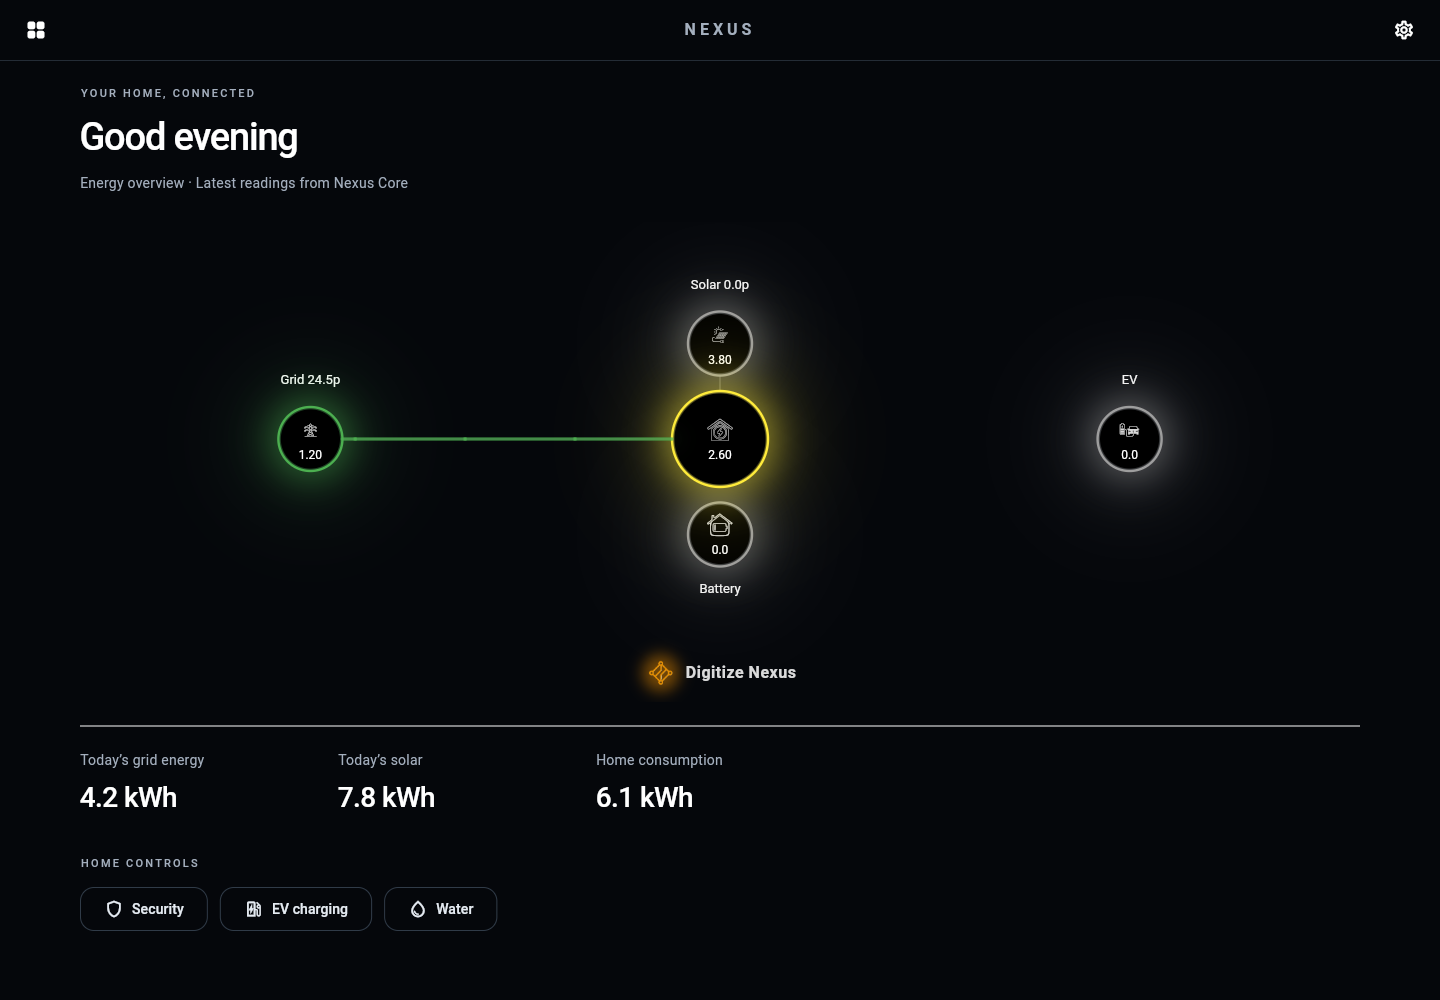
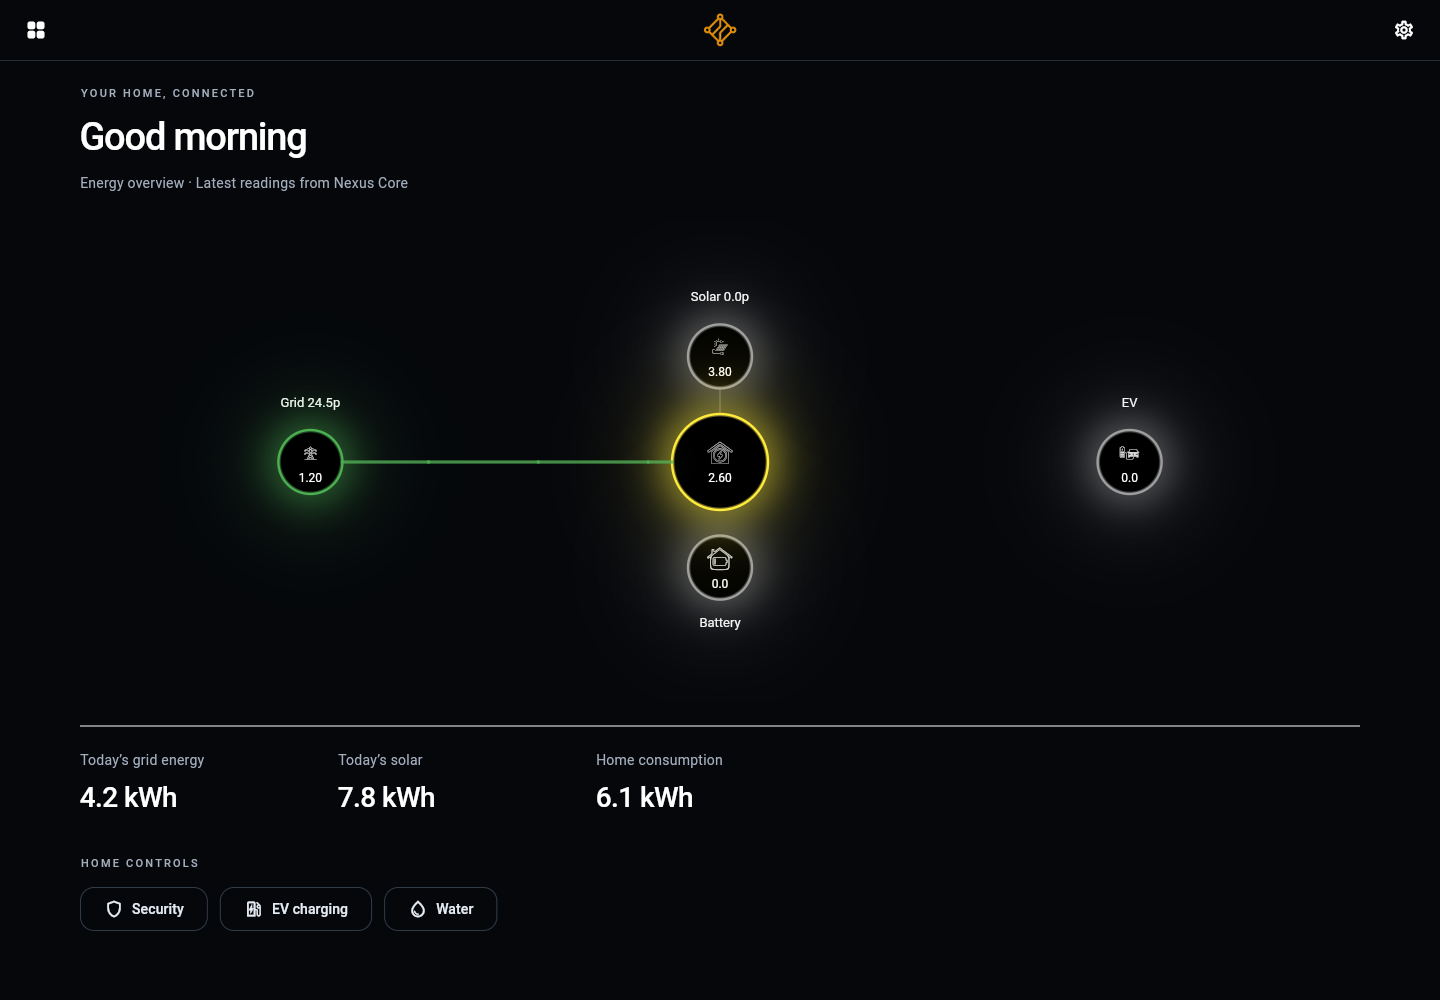
Focus energy dashboard on systems and adapt header branding

diff --git a/lib/features/home/widgets/nexus_header.dart b/lib/features/home/widgets/nexus_header.dart
@@ -6,53 +6,97 @@ class NexusHeader extends StatelessWidget {
   final bool showSettings;
   final String? title;
 
+  /// Kiosk installations can force left alignment even on a desktop host.
+  /// Otherwise only spacious desktop layouts centre the brand.
+  final bool? centerBrand;
+
   const NexusHeader({
     super.key,
     this.isMainPage = false,
     this.onBack,
     this.showSettings = true,
     this.title,
+    this.centerBrand,
   });
 
   @override
-  Widget build(BuildContext context) => SafeArea(
-    bottom: false,
-    child: Container(
-      padding: const EdgeInsets.symmetric(horizontal: 16, vertical: 10),
-      decoration: const BoxDecoration(
-        border: Border(bottom: BorderSide(color: Color(0xFF242C36))),
-      ),
-      child: Row(
-        children: [
-          if (!isMainPage)
-            IconButton(
-              tooltip: 'Home systems',
-              onPressed: onBack,
-              icon: const Icon(Icons.grid_view_rounded, size: 22),
-            )
-          else
-            const SizedBox(width: 48),
-          Expanded(
-            child: Text(
-              title ?? 'NEXUS',
-              textAlign: TextAlign.center,
-              style: const TextStyle(
-                fontSize: 16,
-                fontWeight: FontWeight.w600,
-                letterSpacing: 4,
-              ),
+  Widget build(BuildContext context) {
+    final platform = Theme.of(context).platform;
+    final desktop =
+        platform == TargetPlatform.linux ||
+        platform == TargetPlatform.macOS ||
+        platform == TargetPlatform.windows;
+
+    return SafeArea(
+      bottom: false,
+      child: LayoutBuilder(
+        builder: (context, constraints) {
+          final centered =
+              centerBrand ??
+              (desktop &&
+                  constraints.maxWidth >= 1100 &&
+                  MediaQuery.sizeOf(context).shortestSide >= 900);
+          return Container(
+            padding: const EdgeInsets.symmetric(horizontal: 16, vertical: 10),
+            decoration: const BoxDecoration(
+              border: Border(bottom: BorderSide(color: Color(0xFF242C36))),
             ),
-          ),
-          if (showSettings)
-            IconButton(
-              tooltip: 'Settings',
-              onPressed: () => Navigator.pushNamed(context, '/settings'),
-              icon: const Icon(Icons.settings_outlined, size: 22),
-            )
-          else
-            const SizedBox(width: 48),
-        ],
+            child: Row(
+              children: [
+                if (!isMainPage)
+                  IconButton(
+                    tooltip: 'Home systems',
+                    onPressed: onBack,
+                    icon: const Icon(Icons.grid_view_rounded, size: 22),
+                  )
+                else if (centered)
+                  const SizedBox(width: 48),
+                Expanded(
+                  child: Align(
+                    alignment: centered
+                        ? Alignment.center
+                        : Alignment.centerLeft,
+                    child: Row(
+                      mainAxisSize: MainAxisSize.min,
+                      children: [
+                        Padding(
+                          padding: const EdgeInsets.symmetric(horizontal: 12),
+                          child: Image.asset(
+                            'assets/digitize_nexus_logo.png',
+                            width: 36,
+                            height: 36,
+                            semanticLabel: 'Nexus',
+                          ),
+                        ),
+                        if (title != null)
+                          Flexible(
+                            child: Text(
+                              title!,
+                              maxLines: 1,
+                              overflow: TextOverflow.ellipsis,
+                              style: const TextStyle(
+                                fontSize: 16,
+                                fontWeight: FontWeight.w500,
+                              ),
+                            ),
+                          ),
+                      ],
+                    ),
+                  ),
+                ),
+                if (showSettings)
+                  IconButton(
+                    tooltip: 'Settings',
+                    onPressed: () => Navigator.pushNamed(context, '/settings'),
+                    icon: const Icon(Icons.settings_outlined, size: 22),
+                  )
+                else if (centered)
+                  const SizedBox(width: 48),
+              ],
+            ),
+          );
+        },
       ),
-    ),
-  );
+    );
+  }
 }

diff --git a/test/nexus_header_test.dart b/test/nexus_header_test.dart
@@ -1,0 +1,104 @@
+import 'package:flutter/material.dart';
+import 'package:flutter_test/flutter_test.dart';
+import 'package:nexus_app/features/home/widgets/nexus_header.dart';
+import 'package:nexus_app/theme/nexus_theme.dart';
+
+void main() {
+  for (final setup in [
+    (
+      name: 'desktop',
+      size: const Size(1440, 1000),
+      platform: TargetPlatform.linux,
+      centered: true,
+    ),
+    (
+      name: 'landscape tablet',
+      size: const Size(1280, 800),
+      platform: TargetPlatform.android,
+      centered: false,
+    ),
+    (
+      name: 'large tablet',
+      size: const Size(1366, 1024),
+      platform: TargetPlatform.iOS,
+      centered: false,
+    ),
+    (
+      name: 'NSPanel-sized screen',
+      size: const Size(480, 480),
+      platform: TargetPlatform.android,
+      centered: false,
+    ),
+  ]) {
+    testWidgets(
+      '${setup.name} places one logo outside the camera area when needed',
+      (tester) async {
+        tester.view.physicalSize = setup.size;
+        tester.view.devicePixelRatio = 1;
+        addTearDown(tester.view.resetPhysicalSize);
+        addTearDown(tester.view.resetDevicePixelRatio);
+        var systemsOpened = false;
+        await tester.pumpWidget(
+          MaterialApp(
+            theme: nexusTheme.copyWith(platform: setup.platform),
+            routes: {
+              '/settings': (_) => const Scaffold(body: Text('Settings page')),
+            },
+            home: Scaffold(
+              body: Column(
+                children: [NexusHeader(onBack: () => systemsOpened = true)],
+              ),
+            ),
+          ),
+        );
+        final logo = find.byType(Image);
+        expect(logo, findsOneWidget);
+        expect(
+          (tester.widget<Image>(logo).image as AssetImage).assetName,
+          'assets/digitize_nexus_logo.png',
+        );
+        expect(find.text('NEXUS'), findsNothing);
+        final position = tester.getCenter(logo);
+        if (setup.centered) {
+          expect(position.dx, closeTo(setup.size.width / 2, 1));
+        } else {
+          expect(
+            tester.getRect(logo).right,
+            lessThan(setup.size.width / 2 - 24),
+          );
+        }
+        await tester.tap(find.byTooltip('Home systems'));
+        expect(systemsOpened, isTrue);
+        await tester.tap(find.byTooltip('Settings'));
+        await tester.pumpAndSettle();
+        expect(find.text('Settings page'), findsOneWidget);
+        expect(tester.takeException(), isNull);
+      },
+    );
+  }
+
+  testWidgets(
+    'desktop kiosk override keeps branding left and preserves page title',
+    (tester) async {
+      tester.view.physicalSize = const Size(1440, 1000);
+      tester.view.devicePixelRatio = 1;
+      addTearDown(tester.view.resetPhysicalSize);
+      addTearDown(tester.view.resetDevicePixelRatio);
+      await tester.pumpWidget(
+        MaterialApp(
+          theme: nexusTheme.copyWith(platform: TargetPlatform.linux),
+          home: const Scaffold(
+            body: Column(
+              children: [
+                NexusHeader(centerBrand: false, title: 'Security Overview'),
+              ],
+            ),
+          ),
+        ),
+      );
+      expect(tester.getRect(find.byType(Image)).right, lessThan(200));
+      expect(find.text('Security Overview'), findsOneWidget);
+      expect(tester.takeException(), isNull);
+    },
+  );
+}

diff --git a/test/widget_test.dart b/test/widget_test.dart
@@ -9,6 +9,7 @@ import 'package:nexus_app/core/providers/energy_provider.dart';
 import 'package:nexus_app/core/repositories/energy_repository.dart';
 import 'package:nexus_app/features/home/nexus_home.dart';
 import 'package:nexus_app/features/home/widgets/nexus_energy_map.dart';
+import 'package:nexus_app/features/home/widgets/nexus_footer.dart';
 import 'package:nexus_app/theme/nexus_theme.dart';
 
 class TestRepository extends NexusEnergyRepository {
@@ -64,6 +65,9 @@ void main() {
       }),
     );
     await tester.pump();
+    expect(find.byType(NexusFooter), findsNothing);
+    expect(find.text('Digitize Nexus'), findsNothing);
+    expect(find.byType(Image), findsOneWidget);
     await tester.tap(find.byType(NexusEnergyMap));
     await tester.pump(const Duration(milliseconds: 400));
     expect(find.text('Power now: 0.00 kW'), findsOneWidget);
@@ -71,6 +75,40 @@ void main() {
     await tester.pump(const Duration(milliseconds: 400));
     await tester.scrollUntilVisible(find.text('4.2 kWh'), 200);
     expect(find.text('4.2 kWh'), findsOneWidget);
+    expect(tester.takeException(), isNull);
+    await tester.pumpWidget(const SizedBox());
+  });
+  testWidgets('landscape energy node taps match all five visible nodes', (
+    tester,
+  ) async {
+    tester.view.physicalSize = const Size(1440, 1000);
+    tester.view.devicePixelRatio = 1;
+    addTearDown(tester.view.resetPhysicalSize);
+    addTearDown(tester.view.resetDevicePixelRatio);
+    final repo = TestRepository();
+    await tester.pumpWidget(
+      ProviderScope(
+        overrides: [energyRepositoryProvider.overrideWithValue(repo)],
+        child: MaterialApp(theme: nexusTheme, home: const NexusHome()),
+      ),
+    );
+    repo.pending.complete(NexusEnergyState.fromJson({}));
+    await tester.pump();
+    final bounds = tester.getRect(find.byType(NexusEnergyMap));
+    for (final node in [
+      (name: 'Home', offset: Offset.zero),
+      (name: 'Solar', offset: Offset(0, -bounds.height * 0.22)),
+      (name: 'Battery', offset: Offset(0, bounds.height * 0.22)),
+      (name: 'Grid', offset: Offset(-bounds.width * 0.32, 0)),
+      (name: 'EV charging', offset: Offset(bounds.width * 0.32, 0)),
+    ]) {
+      await tester.tapAt(bounds.center + node.offset);
+      await tester.pump(const Duration(milliseconds: 400));
+      expect(find.descendant(of: find.byType(BottomSheet),
+          matching: find.text(node.name)), findsOneWidget);
+      Navigator.of(tester.element(find.text('Power now: 0.00 kW'))).pop();
+      await tester.pump(const Duration(milliseconds: 400));
+    }
     expect(tester.takeException(), isNull);
     await tester.pumpWidget(const SizedBox());
   });

diff --git a/lib/features/home/widgets/nexus_energy_map.dart b/lib/features/home/widgets/nexus_energy_map.dart
@@ -43,8 +43,10 @@ class NexusEnergyMap extends StatelessWidget {
         final centerX = w / 2;
         final centerY = h / 2;
 
-        final verticalOffset = h * 0.28;
-        final horizontalOffset = w * 0.28;
+        final landscape =
+            MediaQuery.orientationOf(context) == Orientation.landscape;
+        final verticalOffset = h * (landscape ? 0.22 : 0.28);
+        final horizontalOffset = w * (landscape ? 0.32 : 0.28);
 
         final solarPos = Offset(centerX, centerY - verticalOffset);
         final batteryPos = Offset(centerX, centerY + verticalOffset);

diff --git a/lib/features/home/widgets/tesla_energy_map.dart b/lib/features/home/widgets/tesla_energy_map.dart
@@ -1,6 +1,5 @@
 import 'dart:math';
 import 'package:flutter/material.dart';
-import 'package:nexus_app/features/home/widgets/nexus_footer.dart';
 import 'tesla_icons.dart';
 
 class TeslaEnergyMap extends StatefulWidget {
@@ -229,7 +228,6 @@ class _TeslaEnergyMapState extends State<TeslaEnergyMap>
             ),
           ),
 
-          const NexusFooter(),
         ],
       );
     }

diff --git a/REVIEW.md b/REVIEW.md
@@ -17,7 +17,7 @@ Changes:
 
 Verification:
 - Flutter dependencies resolved; the lockfile reflects the installed SDK's pinned dependencies.
-- Both widget tests pass.
+- Eight widget tests pass, including responsive branding, existing navigation and all five energy-node reading sheets.
 - The active application builds successfully for web.
 - Scoped static analysis of home UI, theme, energy provider and tests has no errors. Existing warnings and SDK deprecation/style notices remain.
 - Full-project static analysis reports pre-existing errors: obsolete NexusData constructor arguments in nexus_repository.dart; incorrect security overview import in navigation.dart; absent base_repository.dart used by SecurityRepository; missing TapAnimation arguments in tap_test_page.dart. These were outside this dashboard iteration and have not been silently replaced.
@@ -38,3 +38,12 @@ Run from Nexus_App using a compatible Flutter SDK:
 Browser builds require the backend to allow the app's origin. Use the existing native platforms for target-device verification.
 
 Browser screenshots use simulated readings, not telemetry from a real property. Browser checks block HTTPS requests to verify that the local renderer/font setup works without public CDNs.
+
+## Branding feedback update
+
+- Replaced default NEXUS header text with the supplied logo asset and an accessible Nexus label.
+- Left-aligned the logo for Android/iOS and compact viewports; spacious desktops can centre it. Added an explicit alignment override for kiosks.
+- Removed the Digitize Nexus footer from the animated energy display; the existing footer component remains available elsewhere.
+- Preserved the large central House node, telemetry and animation behaviour.
+- Matched landscape tap targets to the painter's existing node positions.
+- Web build and eight widget tests pass. Scoped static analysis reports no errors, with pre-existing warning/deprecation/style notices retained.

diff --git a/README.md b/README.md
@@ -7,7 +7,7 @@ This repository contains the first dashboard UI iteration, preserving the suppli
 ## Verification
 
 - Web build passes.
-- Both dashboard widget tests pass, covering offline navigation, narrow-screen layout and the energy reading panel.
+- Eight widget tests pass, covering responsive logo placement, navigation, offline behaviour, narrow-screen layout and all five energy-node reading panels.
 - Scoped dashboard analysis has no errors; warning and style/deprecation notices remain.
 - Full-project analysis still reports errors in older files outside this dashboard iteration. See [review notes](REVIEW.md) and [analysis output](docs/full-project-analysis.txt).
 - Physical devices, Home Assistant and NSPanel Pro have not been verified. Some existing security logic simulates alarm state.
@@ -28,6 +28,12 @@ These screenshots use **simulated energy readings**, not real home telemetry.
 
 ![Desktop dashboard](docs/dashboard-desktop.png)
 
-[Phone-sized preview](docs/dashboard-mobile.png)
+[Phone-sized preview](docs/dashboard-mobile.png) · [Tablet preview](docs/dashboard-tablet.png) · [NSPanel-sized preview](docs/dashboard-nspanel.png)
 
 This is development source, not a commercial release. See [REVIEW.md](REVIEW.md) for scope and limitations.
+
+## Dashboard branding
+
+The header shows the supplied Nexus symbol once. Spacious desktop layouts can centre it; Android/iOS and compact layouts keep it left-aligned to avoid the top-centre camera area. Desktop-hosted kiosks can set `NexusHeader(centerBrand: false)`. Existing page titles and controls remain available.
+
+The animated energy map contains only the energy systems. The large House node stays at its centre. Browser previews use simulated data and screen sizes; they do not verify physical NSPanel Pro hardware.
